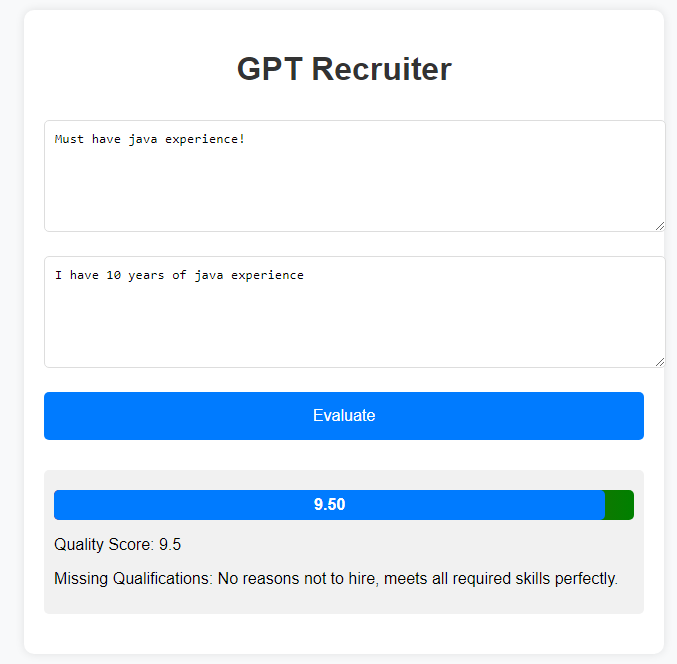
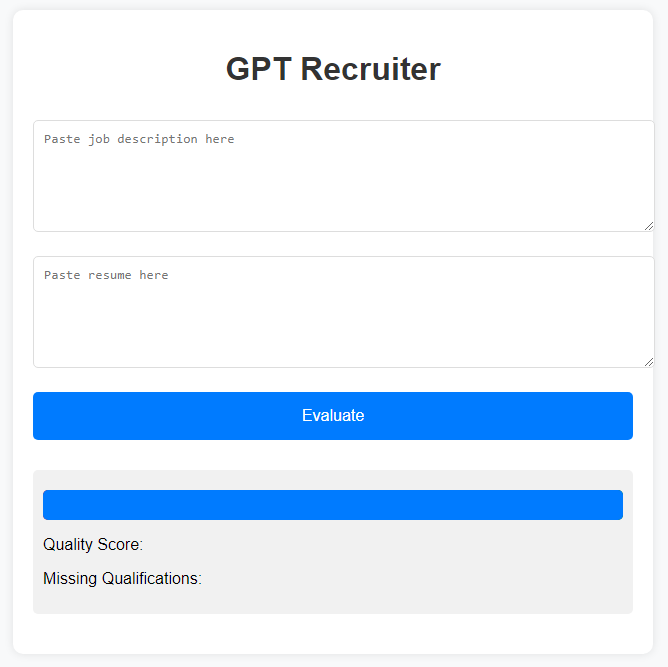
Tweak ui

diff --git a/index.html b/index.html
@@ -3,6 +3,7 @@
 <head>
     <meta charset="UTF-8">
     <meta name="viewport" content="width=device-width, initial-scale=1.0">
+    <link rel="stylesheet" href="https://cdnjs.cloudflare.com/ajax/libs/font-awesome/5.15.4/css/all.min.css" integrity="sha512-..." crossorigin="anonymous" />
     <title>GPT Recruiter</title>
     <style>
         body {
@@ -34,7 +35,7 @@
             width: 100%;
             padding: 15px;
             margin: 10px 0;
-            background: #007bff;
+            background: #34568B;
             color: #fff;
             border: none;
             border-radius: 5px;
@@ -42,7 +43,7 @@
             font-size: 16px;
         }
         button:hover {
-            background: #0056b3;
+            background: #2d4b78;
         }
         .result {
             margin: 20px 0;
@@ -53,17 +54,40 @@
         .gradient-bar {
             height: 30px;
             border-radius: 5px;
-            background: linear-gradient(to right, red, green);
+            background: linear-gradient(to right, red, 45%, green);
             margin: 10px 0;
         }
         .score-indicator {
             height: 100%;
-            background: #007bff;
+            background: #34568B;
             text-align: center;
             line-height: 30px;
             font-weight: bold;
             border-radius: 5px;
             color: #fff;
+        }
+        footer {
+            text-align: center;
+            margin-top: 20px; /* Adjust spacing as needed */
+            padding: 10px 0;
+            color: #000000;
+            border-radius: 5px;
+        }
+        footer ul {
+            list-style-type: none;
+            padding: 0;
+        }
+        footer ul li {
+            display: inline-block;
+            margin-right: 10px;
+        }
+        footer a {
+            text-decoration: none;
+            font-size: 24px;
+            color: #000000;
+        }
+        footer a:hover {
+            opacity: 0.8;
         }
     </style>
 </head>
@@ -81,27 +105,12 @@
             <p id="reject-reason">Missing Qualifications: </p>
         </div>
     </div>
-    <script>
-        async function evaluateCandidate() {
-            const jobDescription = document.getElementById('job-description').value;
-            const resumeText = document.getElementById('resume-text').value;
-
-            const response = await fetch('/evaluate', {
-                method: 'POST',
-                headers: {
-                    'Content-Type': 'application/json'
-                },
-                body: JSON.stringify({ job_description: jobDescription, resume_text: resumeText })
-            });
-
-            const data = await response.json();
-            document.getElementById('quality-score').innerText = 'Quality Score: ' + data.quality_score;
-            document.getElementById('reject-reason').innerText = 'Missing Qualifications: ' + data.reject_reason;
-
-            const scoreIndicator = document.getElementById('score-indicator');
-            scoreIndicator.style.width = (data.quality_score * 10) + '%';
-            scoreIndicator.innerText = data.quality_score.toFixed(2);
-        }
-    </script>
+    <footer>
+        <ul>
+            <li><a href="https://www.linkedin.com/in/jay-snellings/"><i class="fab fa-linkedin"></i></a></li>
+            <li><a href="https://github.com/Jay11682"><i class="fab fa-github"></i></a></li>
+        </ul>
+        <p>&copy; 2024 Jay Snellings. All Rights Reserved.</p>
+    </footer>
 </body>
 </html>

diff --git a/temp.html b/temp.html
@@ -1,0 +1,62 @@
+<!DOCTYPE html>
+<html lang="en">
+<head>
+    <meta charset="UTF-8">
+    <meta name="viewport" content="width=device-width, initial-scale=1.0">
+    <script src="https://cdn.tailwindcss.com"></script>
+    <!-- Font Awesome -->
+    <link rel="stylesheet" href="https://cdnjs.cloudflare.com/ajax/libs/font-awesome/5.15.4/css/all.min.css" integrity="sha512-..." crossorigin="anonymous" />
+    <title>GPT Recruiter</title>
+</head>
+<body class="bg-white dark:bg-bg-white text-zinc-900 dark:text-slate-800">
+    <main class="container mx-auto p-4 bg-white dark:bg-bg-slate-300 rounded-lg shadow-lg">
+        <h1 class="text-center text-4xl font-bold mb-4">GPT Recruiter</h1>
+        <textarea id="job-description" rows="6" class="w-full p-2 mb-4 border rounded" placeholder="Paste job description here"></textarea>
+        <textarea id="resume-text" rows="6" class="w-full p-2 mb-4 border rounded" placeholder="Paste resume here"></textarea>
+        <button onclick="evaluateCandidate()" class="w-full p-3 mb-4 bg-slate-500 text-white rounded hover:bg-slate-800">Evaluate</button>
+        
+        <div class="result p-4 rounded-lg">
+            <div class="gradient-bar h-6 mb-2 rounded-full overflow-hidden">
+                <div class="score-indicator h-full text-center text-slate-800 font-bold"></div>
+            </div>
+            <p id="quality-score" class="mb-2">Quality Score: </p>
+            <p id="reject-reason">Missing Qualifications: </p>
+        </div>
+    </main>
+    
+    <footer class="text-center p-4 bg-white dark:bg-bg-white text-slate-900">
+        <ul class="flex justify-center space-x-4 mb-4">
+            <li><a href="https://www.linkedin.com/in/jay-snellings/" class="w-6 h-6 mr-2"><i class="fab fa-linkedin text-slate-900"></i></a></li>
+            <li><a href="https://github.com/Jay11682" class="w-6 h-6 mr-2"><i class="fab fa-github text-slate-900"></i></a></li>
+        </ul>
+        <p>&copy; 2024 Jay Snellings. All Rights Reserved.</p>
+    </footer>
+
+    <script>
+        async function evaluateCandidate() {
+            const jobDescription = document.getElementById('job-description').value;
+            const resumeText = document.getElementById('resume-text').value;
+
+            const response = await fetch('/evaluate', {
+                method: 'POST',
+                headers: {
+                    'Content-Type': 'application/json'
+                },
+                body: JSON.stringify({ job_description: jobDescription, resume_text: resumeText })
+            });
+
+            const data = await response.json();
+            document.getElementById('quality-score').innerText = 'Quality Score: ' + data.quality_score;
+            document.getElementById('reject-reason').innerText = 'Missing Qualifications: ' + data.reject_reason;
+
+            const scoreIndicator = document.querySelector('.score-indicator');
+            scoreIndicator.style.width = (data.quality_score * 10) + '%';
+            scoreIndicator.innerText = data.quality_score.toFixed(2);
+
+            // Update the background gradient based on the score
+            const scorePercentage = data.quality_score * 10;
+            scoreIndicator.style.background = `linear-gradient(to right, green ${scorePercentage}%, red ${scorePercentage}%)`;
+        }
+    </script>
+</body>
+</html>

diff --git a/README.md b/README.md
@@ -9,3 +9,4 @@ OPENAI_API_KEY=sk-... your OpenAI API Key
 To run, simply type "python3 app.py" and navigate to http://127.0.0.1:5000
 
 ![Image of the tool](images/image.png)
+![Image of tool scoring](images/image2.png)
